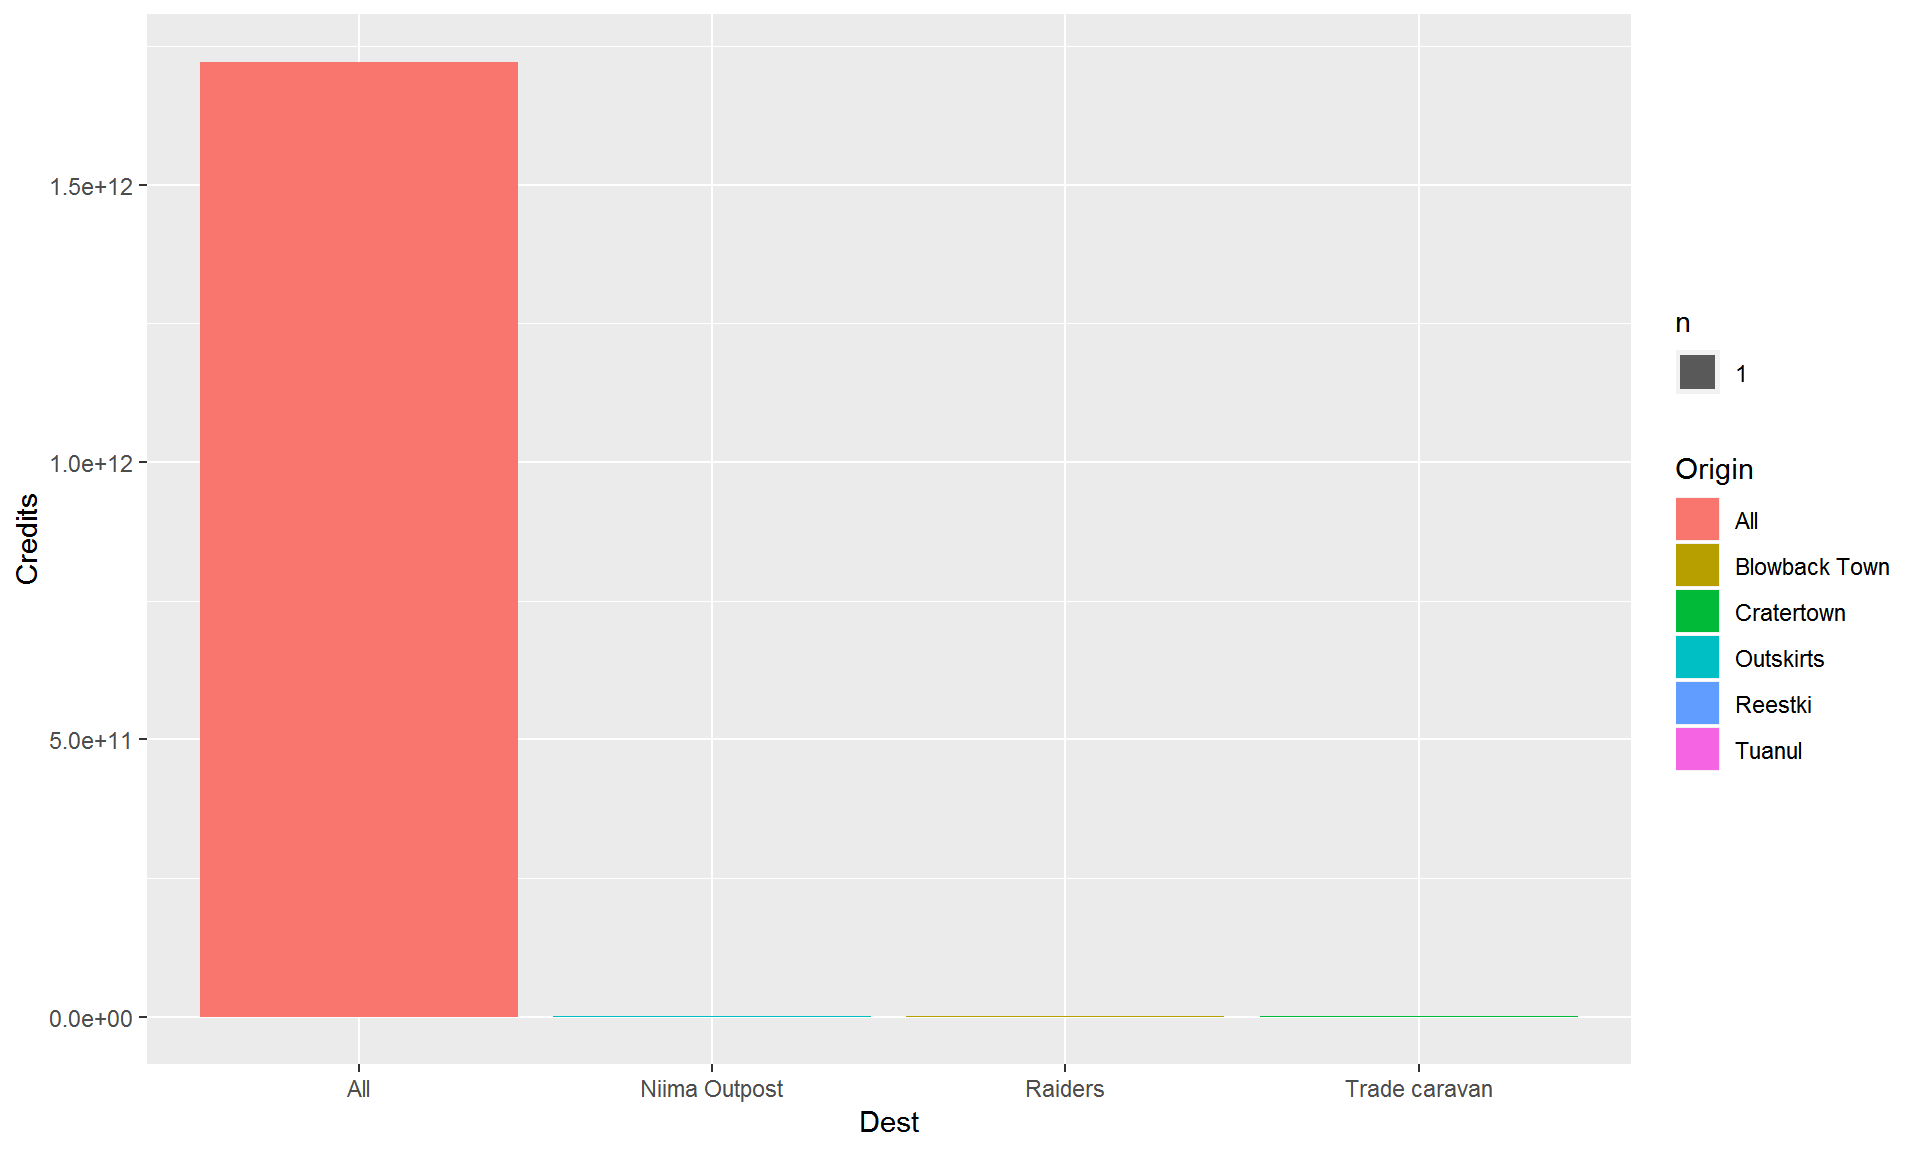
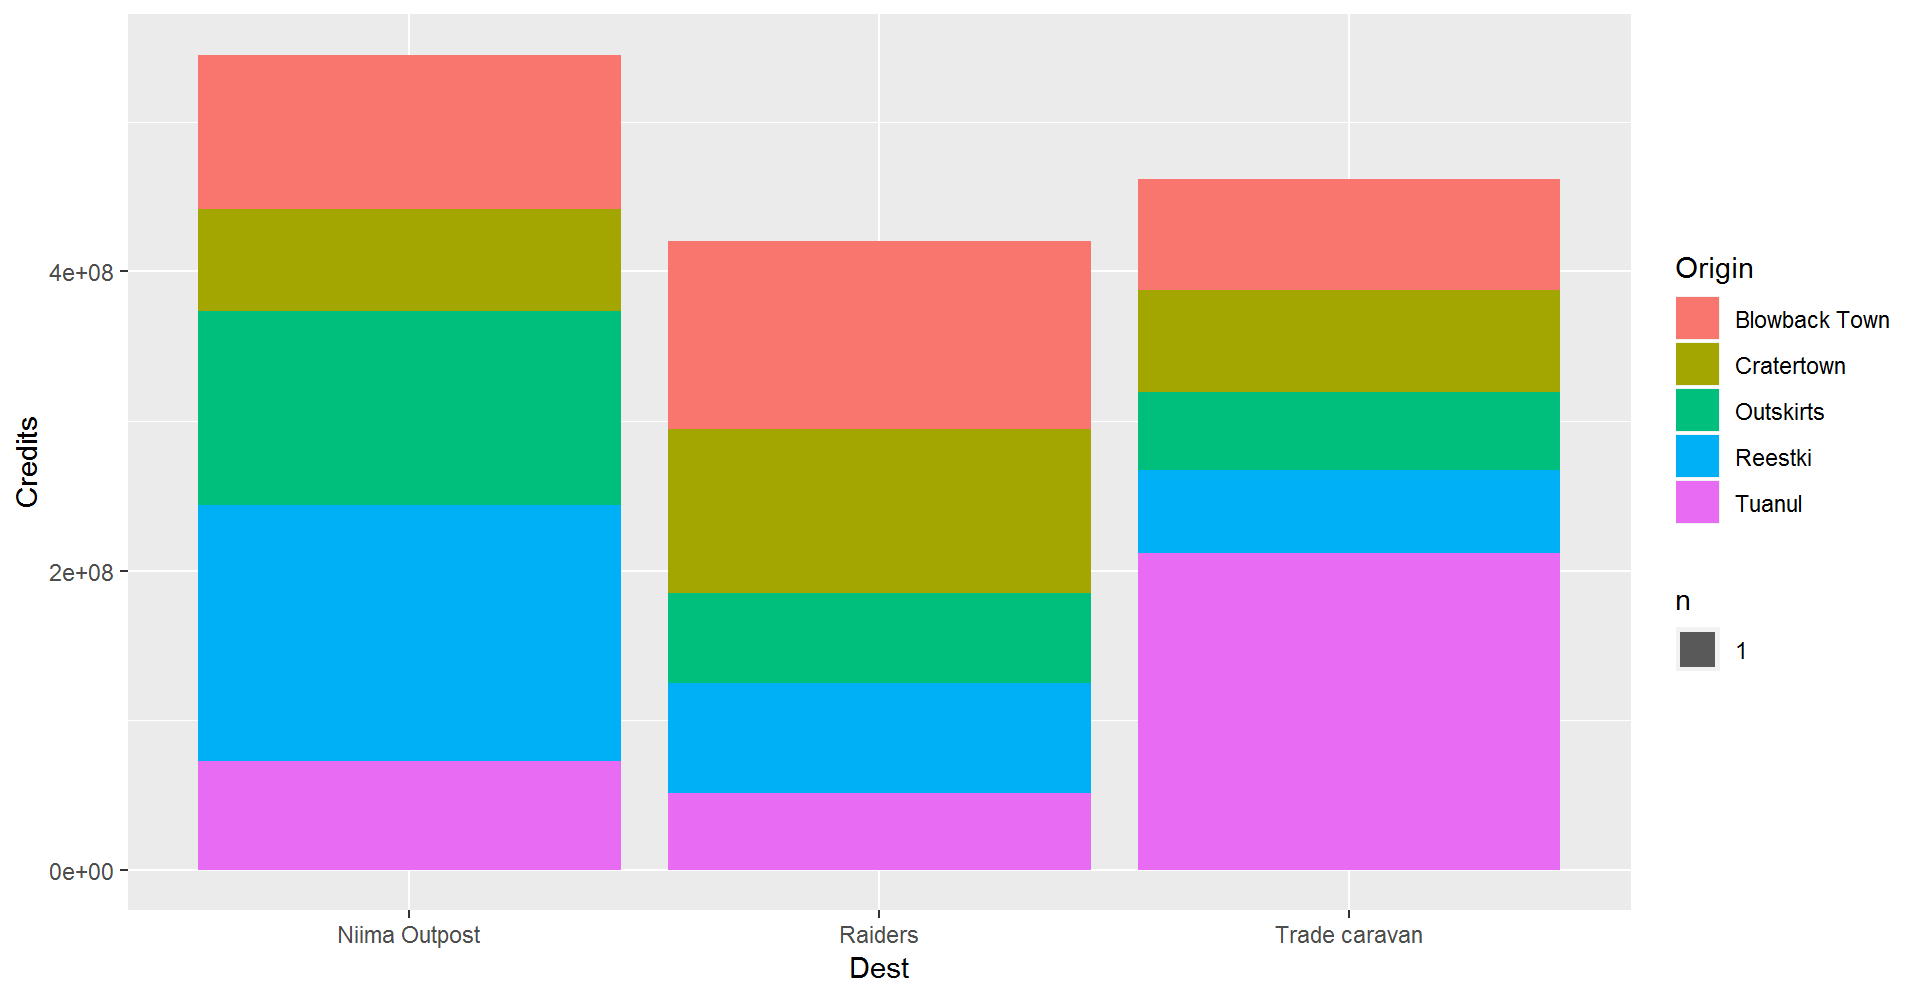
add porg homework

diff --git a/02_Day2.html b/02_Day2.html
@@ -455,6 +455,9 @@ scrap_trade &lt;-<span class="st"> </span><span class="kw">filter</span>(scrap, 
 <span class="co"># Get data</span>
 scrap &lt;-<span class="st"> </span><span class="kw">read_csv</span>(<span class="st">&quot;data/starwars_scrap_jakku.csv&quot;</span>)
 
+<span class="co"># Clean dta</span>
+scrap &lt;-<span class="st"> </span><span class="kw">filter</span>(scrap, Origin <span class="op">!=</span><span class="st"> &quot;All&quot;</span>)
+
 ## Add your name as a column
 scrap &lt;-<span class="st"> </span><span class="kw">mutate</span>(scrap, <span class="dt">scrap_finder =</span> <span class="st">&quot;Your name&quot;</span>)</code></pre></div>
 </div>
@@ -525,11 +528,11 @@ convert &lt;-<span class="st"> </span><span class="kw">read_csv</span>(convert_u
 
 <span class="kw">head</span>(convert, <span class="dv">3</span>)</code></pre></div>
 <pre><code>## # A tibble: 3 x 3
-##   item                     pounds units
-##   &lt;chr&gt;                     &lt;dbl&gt; &lt;chr&gt;
-## 1 Acceleration compensator    1.5 Items
-## 2 Activation cylinder        25   Items
-## 3 Antishock field           153   Items</code></pre>
+##   item                     units pounds
+##   &lt;chr&gt;                    &lt;chr&gt;  &lt;dbl&gt;
+## 1 Acceleration compensator Items    1.5
+## 2 Activation cylinder      Items   25  
+## 3 Antishock field          Items  153</code></pre>
 </div>
 <div id="join-2-tables" class="section level2 unnumbered">
 <h2>Join 2 tables</h2>
@@ -546,13 +549,13 @@ scrap &lt;-<span class="st"> </span><span class="kw">left_join</span>(scrap, con
 
 <span class="kw">head</span>(scrap, <span class="dv">5</span>)</code></pre></div>
 <pre><code>## # A tibble: 5 x 9
-##   Salvage Origin Dest Amount Units Price_per_Ton scrap_finder pounds units
-##   &lt;chr&gt;   &lt;chr&gt;  &lt;ch&gt;  &lt;int&gt; &lt;chr&gt;         &lt;dbl&gt; &lt;chr&gt;         &lt;dbl&gt; &lt;chr&gt;
-## 1 Flight~ Outsk~ Nii~    887 tons           591. Your name        NA Tons 
-## 2 Proxim~ Outsk~ Rai~   7081 tons          1229. Your name        NA Tons 
-## 3 Vitus-~ Reest~ Rai~   4901 tons           226. Your name        NA Tons 
-## 4 Aural ~ Tuanul Rai~    707 tons           145. Your name        NA Tons 
-## 5 Electr~ Tuanul Nii~    107 tons           188. Your name        NA Tons</code></pre>
+##   Salvage Origin Dest Amount Units Price_per_Ton scrap_finder units pounds
+##   &lt;chr&gt;   &lt;chr&gt;  &lt;ch&gt;  &lt;int&gt; &lt;chr&gt;         &lt;dbl&gt; &lt;chr&gt;        &lt;chr&gt;  &lt;dbl&gt;
+## 1 Flight~ Outsk~ Nii~    887 tons           591. Your name    Tons      NA
+## 2 Proxim~ Outsk~ Rai~   7081 tons          1229. Your name    Tons      NA
+## 3 Vitus-~ Reest~ Rai~   4901 tons           226. Your name    Tons      NA
+## 4 Aural ~ Tuanul Rai~    707 tons           145. Your name    Tons      NA
+## 5 Electr~ Tuanul Nii~    107 tons           188. Your name    Tons      NA</code></pre>
 <p><br></p>
 <p><strong>Help!</strong> Remeber to type <code>?left_join</code> if you are wondering what the arguments are.</p>
 </div>
@@ -629,7 +632,7 @@ scrap &lt;-<span class="st"> </span>scrap <span class="op">%&gt;%</span><span cl
 <pre><code>## # A tibble: 1 x 1
 ##   Total_Credits
 ##           &lt;dbl&gt;
-## 1       1.72e12</code></pre>
+## 1   1426971611.</code></pre>
 </div>
 <div id="mean" class="section level2 unnumbered">
 <h2><code>mean()</code></h2>
@@ -638,7 +641,7 @@ scrap &lt;-<span class="st"> </span>scrap <span class="op">%&gt;%</span><span cl
 <pre><code>## # A tibble: 1 x 1
 ##   mean_weight
 ##         &lt;dbl&gt;
-## 1      18751.</code></pre>
+## 1       5390.</code></pre>
 <p><br></p>
 <blockquote>
 <p>Note the <code>na.rm = TRUE</code> in the <code>mean()</code> function. This tells R to ignore empty cells or missing values that show up in R as <code>NA</code>. If you leave <code>na.rm</code> out, the <em>mean</em> funciton will return ‘NA’ when it finds a missing value in the data.</p>
@@ -759,15 +762,14 @@ scrap &lt;-<span class="st"> </span>scrap <span class="op">%&gt;%</span><span cl
 <p><br></p>
 <p>Let’s visualize the data with some more plots.</p>
 </div>
-<div id="make-a-ggplot-sandwich" class="section level1">
-<h1><span class="header-section-number">9</span> | Make a <code>ggplot()</code> sandwich</h1>
+<div id="ggplot-sandwich" class="section level1">
+<h1><span class="header-section-number">9</span> | <code>ggplot()</code> sandwich</h1>
 <hr>
 <div class="figure">
-<img src="images/auto_plot.gif" style="float: right; margin-top: -20px; width: 105%;" />
+<img src="images/auto_plot.gif" style="margin-top: -22px; max-width: 108%;" />
 
 </div>
-<div id="the-3-ingredients-of-a-ggplot" class="section level2 unnumbered">
-<h2>The 3 ingredients of a <code>ggplot</code></h2>
+<p><span class="h6" style="font-size: 28px; font-weight: bold;"> The 3 ingredients in a <code>ggplot</code> </span></p>
 <div id="the-base-plot" class="section level3 unnumbered">
 <h3>1. The base plot</h3>
 <div class="sourceCode"><pre class="sourceCode r"><code class="sourceCode r"><span class="kw">ggplot</span>(scrap)</code></pre></div>
@@ -777,8 +779,9 @@ scrap &lt;-<span class="st"> </span>scrap <span class="op">%&gt;%</span><span cl
 <p>Note when we load the package it’s <code>library (&quot;ggplot2&quot;)</code>, but the function to make a plot is <code>ggplot(scrap)</code>. We admit, it is a bit silly.</p>
 </blockquote>
 </div>
-<div id="the-the-x-y-_aesthetics---the-aesthetics-assign-the-components-from-the-data-you-want-to-use-in-the-chart.-these-also-determine-the-dimensions-of-the-plot." class="section level3">
-<h3><span class="header-section-number">9.0.1</span> 2. The the X, Y _(aesthetics) {-} The <em>aesthetics</em> assign the components from the data you want to use in the chart. These also determine the dimensions of the plot.</h3>
+<div id="the-the-x-y-aesthetics" class="section level3 unnumbered">
+<h3>2. The the X, Y <em>aesthetics</em></h3>
+<p>The <em>aesthetics</em> assign the components from the data that you want to use in the chart. These also determine the dimensions of the plot.</p>
 <div class="sourceCode"><pre class="sourceCode r"><code class="sourceCode r"><span class="kw">ggplot</span>(scrap, <span class="kw">aes</span>(<span class="dt">x =</span> Dest, <span class="dt">y =</span> Credits)) </code></pre></div>
 <p><img src="02_Day2_files/figure-html/unnamed-chunk-14-1.png" width="960" /></p>
 </div>
@@ -794,7 +797,6 @@ scrap &lt;-<span class="st"> </span>scrap <span class="op">%&gt;%</span><span cl
 <div class="sourceCode"><pre class="sourceCode r"><code class="sourceCode r"><span class="kw">ggplot</span>(scrap, <span class="kw">aes</span>(<span class="dt">x =</span> __column1__, <span class="dt">y =</span> __column2__)) <span class="op">+</span><span class="st"> </span><span class="kw">geom_point</span>()</code></pre></div>
 </div>
 </div>
-</div>
 <div id="colors" class="section level2 unnumbered">
 <h2>Colors</h2>
 <hr>
@@ -802,30 +804,48 @@ scrap &lt;-<span class="st"> </span>scrap <span class="op">%&gt;%</span><span cl
 <div class="sourceCode"><pre class="sourceCode r"><code class="sourceCode r"><span class="kw">ggplot</span>(scrap, <span class="kw">aes</span>(<span class="dt">x =</span> Dest, <span class="dt">y =</span> Credits, <span class="dt">color =</span> Origin)) <span class="op">+</span>
 <span class="st">  </span><span class="kw">geom_point</span>()</code></pre></div>
 <p><img src="02_Day2_files/figure-html/unnamed-chunk-17-1.png" width="960" /></p>
+<p><br></p>
 <p>This is a too much detail. Let’s make a bar chart and add up the sales to make it easier to understand.</p>
 <div class="sourceCode"><pre class="sourceCode r"><code class="sourceCode r"><span class="kw">ggplot</span>(scrap, <span class="kw">aes</span>(<span class="dt">x =</span> Dest, <span class="dt">y =</span> Credits, <span class="dt">fill =</span> Origin)) <span class="op">+</span><span class="st"> </span><span class="kw">geom_bar</span>(<span class="dt">stat =</span> <span class="st">&quot;sum&quot;</span>)</code></pre></div>
 <p><img src="02_Day2_files/figure-html/unnamed-chunk-18-1.png" width="960" /></p>
-<p>What if we want to make it easier to compare sales by origin? Let’s change the position:</p>
+<p><br></p>
+<p>This is the same as <code>geom_col()</code>.</p>
+<div class="sourceCode"><pre class="sourceCode r"><code class="sourceCode r"><span class="kw">ggplot</span>(scrap, <span class="kw">aes</span>(<span class="dt">x =</span> Dest, <span class="dt">y =</span> Credits, <span class="dt">fill =</span> Origin)) <span class="op">+</span><span class="st"> </span><span class="kw">geom_col</span>()</code></pre></div>
+<p><br></p>
+<p>What if we want to make it easier to compare sales by origin? Let’s change the position.</p>
 <div class="sourceCode"><pre class="sourceCode r"><code class="sourceCode r"><span class="kw">ggplot</span>(scrap, <span class="kw">aes</span>(<span class="dt">x =</span> Dest, <span class="dt">y =</span> Credits, <span class="dt">fill =</span> Origin)) <span class="op">+</span>
 <span class="st">  </span><span class="kw">geom_bar</span>(<span class="dt">stat =</span> <span class="st">&quot;sum&quot;</span>, <span class="dt">position =</span> <span class="st">&quot;dodge&quot;</span>)</code></pre></div>
-<p><img src="02_Day2_files/figure-html/unnamed-chunk-19-1.png" width="960" /></p>
+<p><img src="02_Day2_files/figure-html/unnamed-chunk-20-1.png" width="960" /></p>
 </div>
 </div>
 <div id="homeworld-training" class="section level1 unnumbered">
 <h1>Homeworld training</h1>
+<div class="figure">
+<img src="images/porg.png" style="float: right; margin-top: -10px;" />
+
+</div>
 <ol style="list-style-type: decimal">
 <li>Load one of the data sets below into R
 <ul>
-<li>Porg contamination: <code>https://raw.githubusercontent.com/MPCA-air/RTrain/master/data/Porg_samples.csv</code></li>
-<li>Endor air samples: <code>https://raw.githubusercontent.com/MPCA-air/RTrain/master/data/air_endor.csv</code></li>
+<li>Porg contamination on Ahch-To: <a href="https://raw.githubusercontent.com/MPCA-air/RTrain/master/data/Porg_samples.csv" class="uri">https://raw.githubusercontent.com/MPCA-air/RTrain/master/data/Porg_samples.csv</a></li>
+<li>Planet Endor air samples: <a href="https://raw.githubusercontent.com/MPCA-air/RTrain/master/data/air_endor.csv" class="uri">https://raw.githubusercontent.com/MPCA-air/RTrain/master/data/air_endor.csv</a></li>
 <li>Or use data from a recent project of yours</li>
 </ul></li>
-<li>Create 2 types of plots using the data. <em>Don’t worry if it looks really-really weird. Consider it art.</em></li>
+</ol>
+<p><br></p>
+<ol start="2" style="list-style-type: decimal">
+<li>Create 2 plots using the data. <em>Don’t worry if it looks really weird. Consider it art.</em></li>
+</ol>
+<p><br></p>
+<ol start="3" style="list-style-type: decimal">
 <li>Paste the function <code>runif(1)</code> into your console.
 <ul>
-<li>If the number you get is bigger than <code>0.2</code> e-mail your charts to the rest of the class.</li>
+<li>If the number is bigger than <code>0.2</code> e-mail your plots to the class.</li>
 </ul></li>
 </ol>
+</div>
+<div id="return-to-homebase" class="section level1 unnumbered">
+<h1><i class="fa fa-rocket" aria-hidden="true"></i> Return to <a href="index.html">Homebase</a></h1>
 <p><br></p>
 </div>
 
